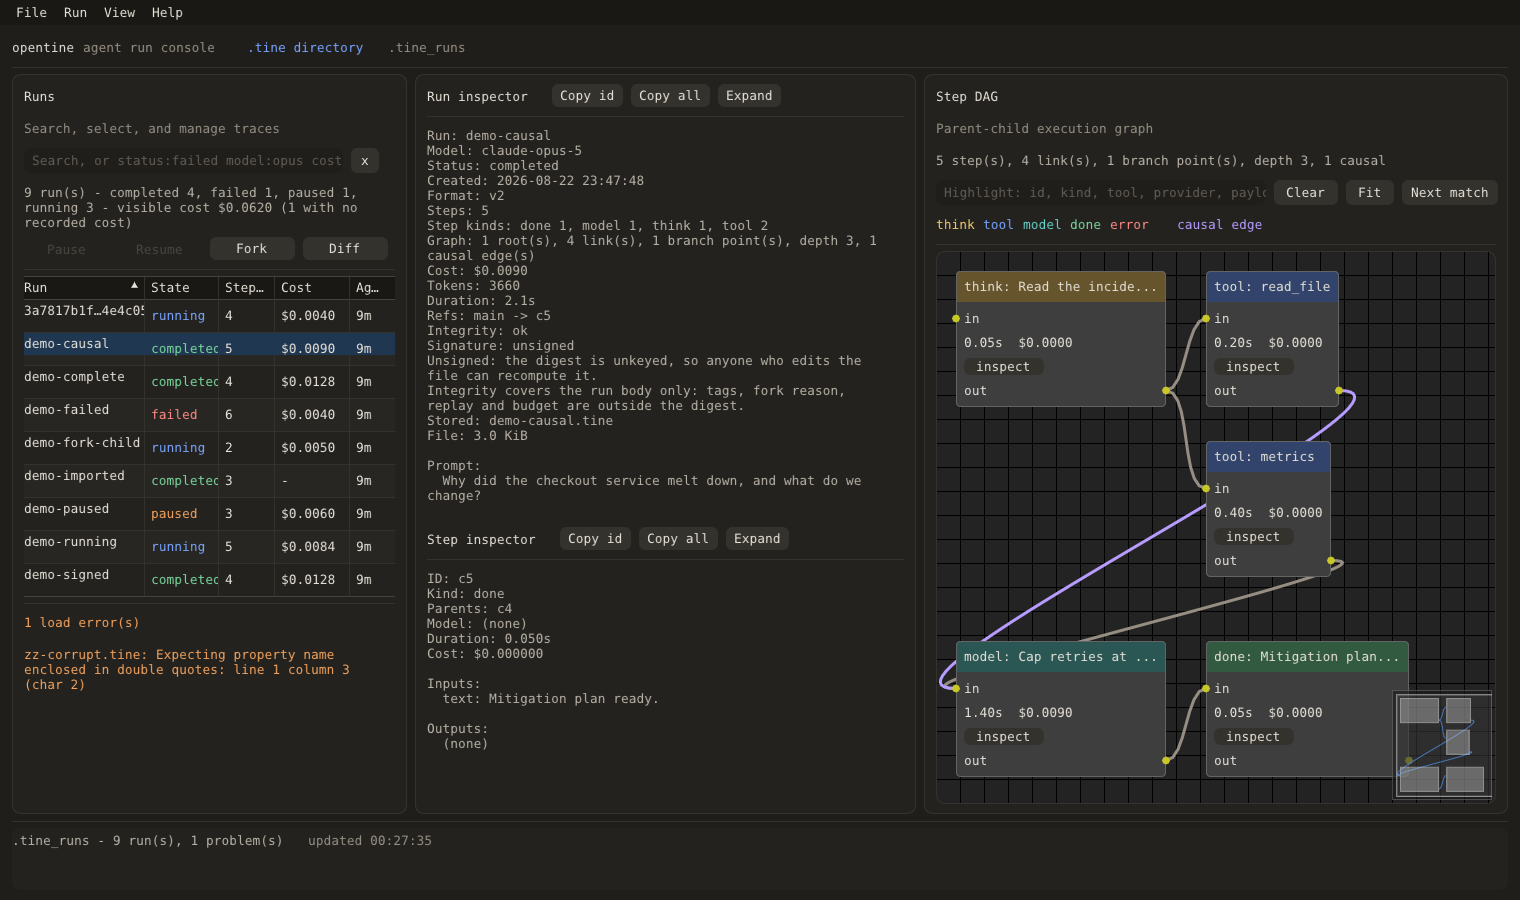
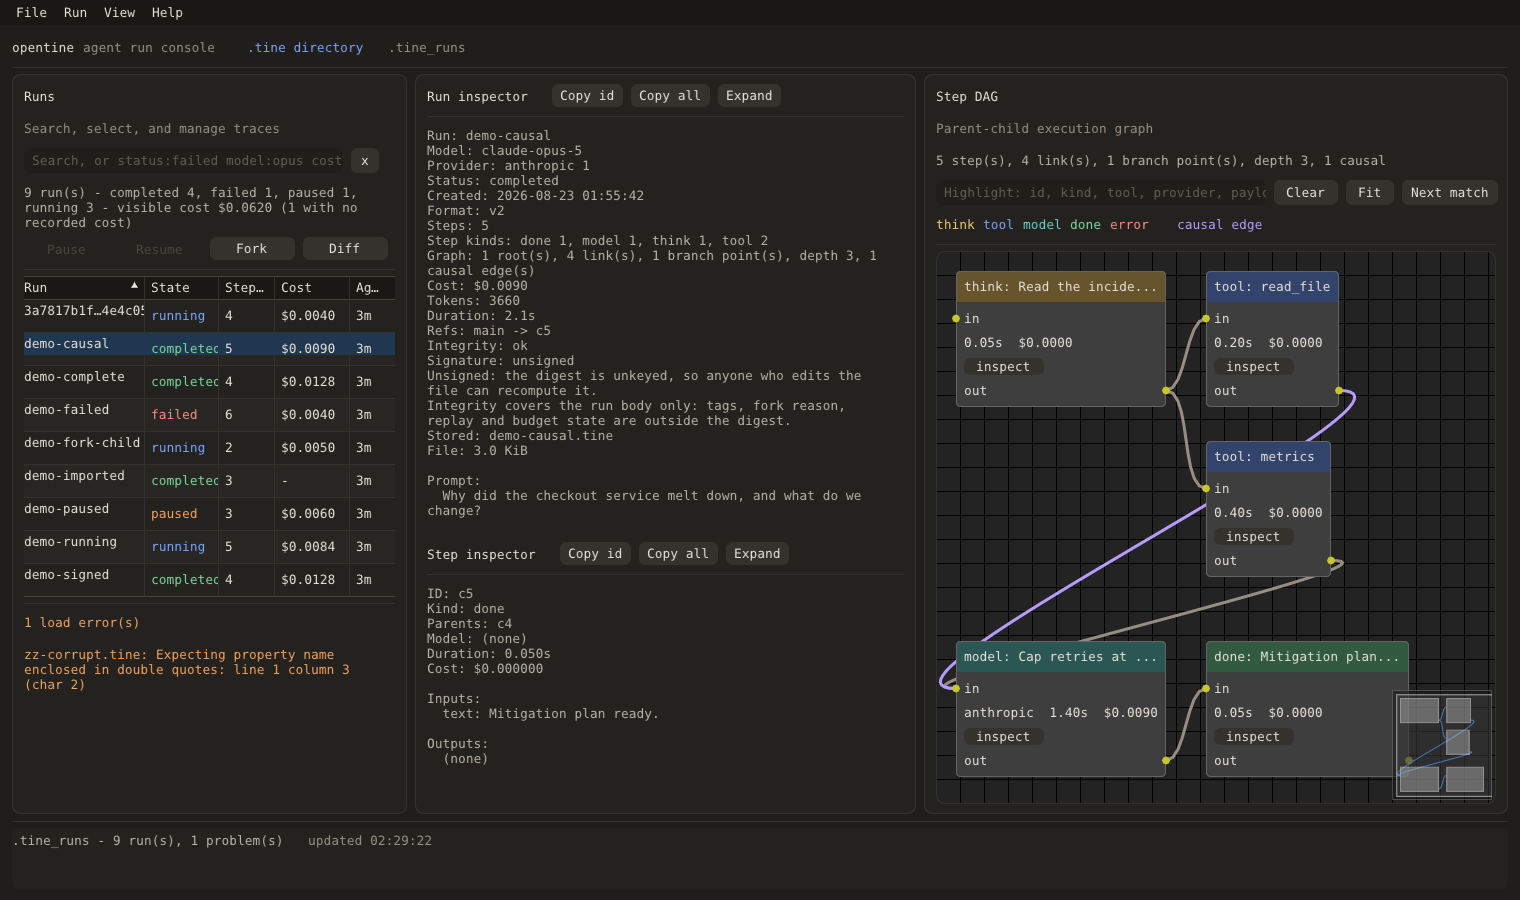
Restore the five-column run table, and screenshot what shipped
The sixth column elided every header to "Stat…"/"A…" in a sidebar this wide.
Model is the one that loses: the run inspector and the row's own tooltip both
carry it. (This edit was lost once to a concurrent mutation-testing harness
restoring app.py from its own snapshot; the screenshot is how it was noticed.)

diff --git a/opentine_gui/app.py b/opentine_gui/app.py
@@ -183,7 +183,8 @@ FILTER_DEBOUNCE_SECONDS = 0.15
 #: rather than on every character.
 PREFERENCES_FLUSH_SECONDS = 1.5
 
-TABLE_COLUMNS = ("id", "status", "model", "steps", "cost", "age")
+#: The run table's columns, in order, keyed the way the sort callback names them.
+TABLE_COLUMNS = ("id", "status", "steps", "cost", "age")
 
 #: The pricing panel's "use what the artifact recorded" option, as opposed to
 #: assuming a provider for steps that recorded none.
@@ -753,11 +754,13 @@ class OpentineGUI:
                 _action_button("Fork", self._fork_selected, "btn_fork")
                 _action_button("Diff", self._open_diff_dialog, "btn_diff")
             dpg.add_separator()
-            # `resizable` and `hideable` are not decoration: Dear PyGui ignores
-            # `configure_item(column, show=...)` entirely, so the only way a
-            # reader can trade one column for another in a narrow sidebar is the
-            # table's own header menu. `Age` starts hidden for the same reason —
-            # it is the least load-bearing column, and the row tooltip has it.
+            # Five columns, not six: the sidebar is ~380dp of content and a
+            # header elided to "Stat…" is worse than no header at all. Model is
+            # the one that loses, because the run inspector and the row tooltip
+            # both carry it. `resizable`/`hideable` matter because Dear PyGui
+            # ignores `configure_item(column, show=...)` and `default_hide`
+            # entirely, so the header menu is the only way a reader can trade
+            # one column for another.
             with dpg.table(
                 header_row=True,
                 borders_innerH=True,
@@ -772,14 +775,11 @@ class OpentineGUI:
                 policy=dpg.mvTable_SizingStretchProp,
                 tag="run_table",
             ):
-                dpg.add_table_column(label="Run", tag="col_id", init_width_or_weight=2.2)
-                dpg.add_table_column(label="State", tag="col_status", init_width_or_weight=1.2)
-                dpg.add_table_column(label="Model", tag="col_model", init_width_or_weight=1.7)
-                dpg.add_table_column(label="Steps", tag="col_steps", init_width_or_weight=0.7)
-                dpg.add_table_column(label="Cost", tag="col_cost", init_width_or_weight=1.2)
-                dpg.add_table_column(
-                    label="Age", tag="col_age", init_width_or_weight=0.7, default_hide=True
-                )
+                dpg.add_table_column(label="Run", tag="col_id", init_width_or_weight=2.4)
+                dpg.add_table_column(label="State", tag="col_status", init_width_or_weight=1.3)
+                dpg.add_table_column(label="Steps", tag="col_steps", init_width_or_weight=0.9)
+                dpg.add_table_column(label="Cost", tag="col_cost", init_width_or_weight=1.3)
+                dpg.add_table_column(label="Age", tag="col_age", init_width_or_weight=0.8)
             dpg.add_separator()
             dpg.add_text("Load errors", color=ACCENT_ORANGE, tag="err_header", show=False)
             dpg.add_text("", tag="err_text", wrap=_px(312), color=ACCENT_ORANGE)
@@ -1313,14 +1313,13 @@ class OpentineGUI:
                 dpg.add_text(
                     run.status.value, color=RUN_STATUS_COLORS.get(run.status, TEXT_PRIMARY)
                 )
-                dpg.add_text(_truncate(_oneline(run.model_info) or "-", 22))
                 dpg.add_text(str(len(run.steps)))
                 dpg.add_text(_cost_cell(run))
                 dpg.add_text(_format_age(entry.mtime or getattr(run, "created_at", 0.0)))
         if len(visible) > len(shown):
             with dpg.table_row(parent="run_table"):
                 dpg.add_text(f"...{len(visible) - len(shown)} more not shown", color=TEXT_MUTED)
-                for _ in range(5):
+                for _ in range(len(TABLE_COLUMNS) - 1):
                     dpg.add_text("")
         dpg.set_value(
             "run_summary",
@@ -1339,7 +1338,7 @@ class OpentineGUI:
                 else:
                     msg = "No .tine runs here yet"
                 dpg.add_text(msg, color=TEXT_MUTED)
-                for _ in range(5):
+                for _ in range(len(TABLE_COLUMNS) - 1):
                     dpg.add_text("")
 
     def _row_tooltip(self, entry: RunEntry) -> str:

diff --git a/tests/test_ui.py b/tests/test_ui.py
@@ -259,18 +259,22 @@ def test_the_table_holds_one_row_per_visible_run(tmp_path: Path, gui_factory, fa
     assert sorted(_row_ids(fake_dpg)) == ["alpha", "beta", "gamma"]
 
 
-def test_a_row_carries_the_id_status_model_steps_cost_and_age(
+def test_a_row_carries_the_id_status_steps_cost_and_age(
     tmp_path: Path, gui_factory, fake_dpg
 ) -> None:
+    # Five columns, not six. A sixth elided every header to "Stat…"/"A…" in a
+    # sidebar this wide; the model is in the run inspector and in the row's own
+    # tooltip, which is where it earns its space.
     _write(tmp_path, _priced_run("beta", cost=0.25))
-    gui_factory(tmp_path)
-    run_id, status, model, steps, cost, age = _cells(fake_dpg, _row_for(fake_dpg, "beta"))
+    gui = gui_factory(tmp_path)
+    run_id, status, steps, cost, age = _cells(fake_dpg, _row_for(fake_dpg, "beta"))
     assert run_id == "beta"
     assert status == "running"
-    assert model == "claude-sonnet-4"
     assert steps == "2"
     assert cost == "$0.2500"
     assert age  # a formatted age, whatever the clock says
+    entry = gui._snapshot.entry("beta")
+    assert "claude-sonnet-4" in gui._row_tooltip(entry)
 
 
 def test_a_run_nothing_priced_shows_a_dash_rather_than_a_zero_cost(
@@ -280,7 +284,7 @@ def test_a_run_nothing_priced_shows_a_dash_rather_than_a_zero_cost(
     # an imported trace records no cost at all.
     _write(tmp_path, _run("alpha"))
     gui_factory(tmp_path)
-    assert _cells(fake_dpg, _row_for(fake_dpg, "alpha"))[4] == "-"
+    assert _cells(fake_dpg, _row_for(fake_dpg, "alpha"))[3] == "-"
 
 
 def test_only_the_selected_row_is_marked_selected(tmp_path: Path, gui_factory, fake_dpg) -> None:
